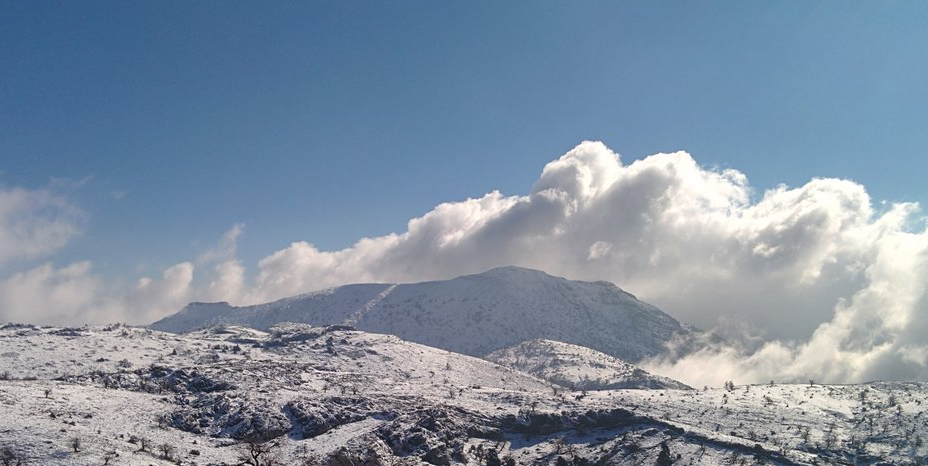
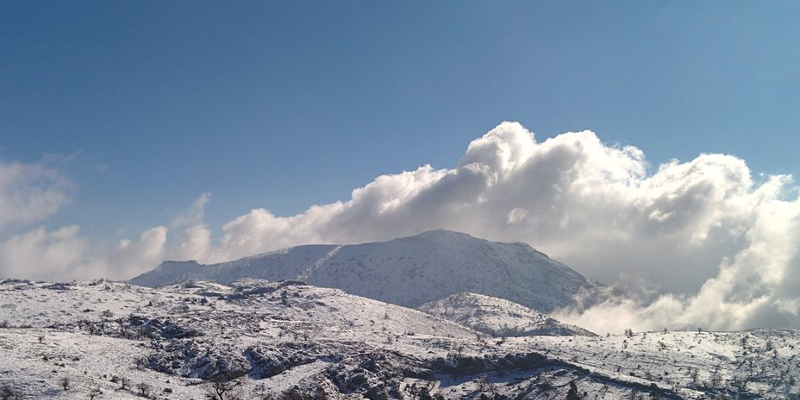
_posts/: add 2016-09-28-comprobando-calidad-expedicion.md
A new post with related assets.

The assets/pico_torrecilla.jpg photo is modified a bit.

diff --git a/_posts/2016-09-28-comprobando-calidad-expedicion.md b/_posts/2016-09-28-comprobando-calidad-expedicion.md
@@ -1,0 +1,91 @@
+---
+layout: post
+title:  "Comprobando la calidad de una expedición comercial"
+date:   2016-09-28 07:00:00 +0200
+tags:	[los extraviaos, aventuras]
+---
+
+![Logo UIAA][logo_uiaa]
+
+La [UIAA][uiaa] es la
+[Unión Internacional de Asociaciones de Alpinismo][wiki_uiaa], que agrupa
+a montañeros, alpinistas y escaladores de todo el mundo. Esta organización
+publica de manera regular y mantiene una serie de directrices en materia de
+seguridad y equipamiento.
+
+Hoy me he interesado por un documento que publicaron
+en 2012 titulado
+"_How to check the quality of a commercially organized trek or Expedition_".
+
+<!--more-->
+
+En este [documento][paper] describe las pautas generales y estándares que deben
+seguirse a la hora de realizar una expedición comercial o un trekking guiado
+en cualquier parte del mundo, haciendo especial incapié en la problemática de
+la altitud. Por supuesto, estos criterios también pueden aplicarse a individuos
+u organizaciones no comerciales.
+
+También ofrece recomendaciones para discriminar buenas empresas y guias de
+otras que pueden no tomarse las cosas en serio.
+
+Una de las primeras cosas que se mencionan es la velocidad de ascenso, que
+nunca debe superar los 500 metros diarios para dormir a partir de 3000 msnm,
+tomando 1 dia de descanso cada 3 o 4 dias.
+También se menciona que esta cota de 500 m es discutida por una de 300 m en
+algunos casos, y que no todas las personas tienen la misma capacidad de
+aclimatación.
+
+Se recomienda especial atención en viajes cuya cota de partida ya se encuentra
+a bastante altitud (más de 3500 msnm), por ejemplo en el Tibet o en América
+del Sur.
+
+El artículo detalla también qué información básica debe ofrecer una compañia
+o un guía que se toma las cosas en serio:
+
+ * debe ofrecer información general que permita obtener al cliente de una
+   visión general del viaje o expedición: ruta, alojamientos, comidas, etc...
+ * debe ofrecer consejos sensatos en materia de seguros.
+ * debe interesarse por la salud de los clientes, antes, durante y tras el
+   viaje.
+ * no debe mostrar desinteres, despreciar los riegos o rehuir de
+   comunicaciones detalladas.
+
+Por ejemplo, si le preguntamos al guía "¿hay algún riesgo?" y nos responde
+"nunca hemos tenido ningún problema", entonces no está siendo realista
+
+El artículo nos recomienda optar siempre por pagar más y hacer viajes más
+largos (de más días) en vez de viajes baratos y rápidos.
+
+![Pico Torrecilla nevado][pico_torrecilla.jpg]
+
+En el apéndice final 1, incluye una tabla bastante descriptiva de cómo
+categorizar la exigencia de cualquier viaje y cómo resumirlo en una frase.
+
+Por ejemplo, la frase **Senderismo sencillo a altitud moderada** debe hacer
+referencia a una altitd máxima de 3.000 msnm, con máximo 1.000 m de desnivel
+y máximo 6 horas de caminata diarias.
+
+La frase **Montañismo hasta 6.000 msnm sin terreno dificil** debe hacer
+referencia a 8-10 horas de caminata diarias, con forma física adecuada,
+con cierca experiencia en trekking alpino y con exigencia en aumento a causa
+de la altitud. Esto podría ser por ejemplo el [Kilimanjaro][wiki_kilimanjaro].
+
+La frase **Trekking sin exigencias en particular** hace referencia a 4-8 horas
+de trekking diario, con forma física adecuada y sin cumbres de más de
+5.600 msnm. Este podría ser por ejemplo el
+[Trail del Annapurna][wiki_annapurna_trail].
+
+El artículo continua así analizando todas las posibilidades, hasta 8.000 msnm
+donde la exigencia física, mental y la profesionalidad requeridas deben ser
+máximas.
+
+En definitiva, ha sido una lectura bastante interesante y de la que pueden
+sacarse algunos aprendizajes valiosos.
+
+[pico_torrecilla.jpg]:          {{site.url}}/assets/pico_torrecilla.jpg
+[uiaa]:				http://www.theuiaa.org/
+[wiki_uiaa]:			https://es.wikipedia.org/wiki/Union_Internationale_des_Associations_d%27Alpinisme
+[paper]:			http://www.theuiaa.org/upload_area/Medicine/Advice-and-Recommendations/No7-Trekking/English_UIAA_MedCom_Rec_No_7_Check_Organization_2012_V2-3.pdf
+[logo_uiaa]:			{{site.url}}/assets/logo_uiaa.png
+[wiki_kilimanjaro]:		https://es.wikipedia.org/wiki/Kilimanjaro
+[wiki_annapurna_trail]:		https://en.wikipedia.org/wiki/Annapurna_Circuit
